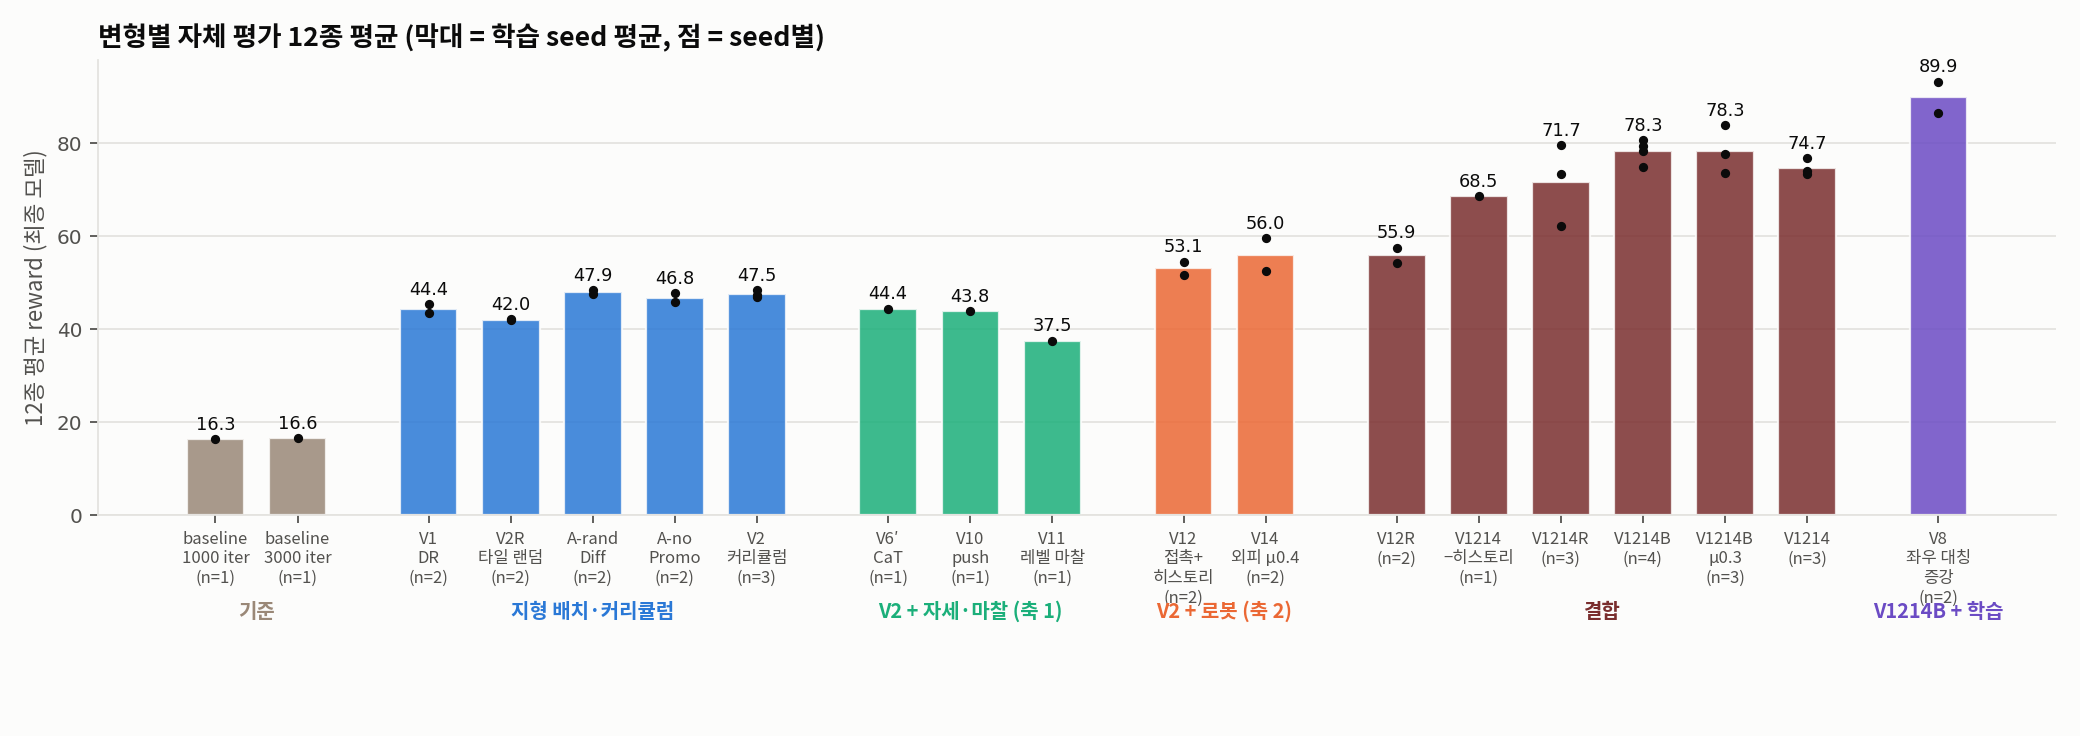
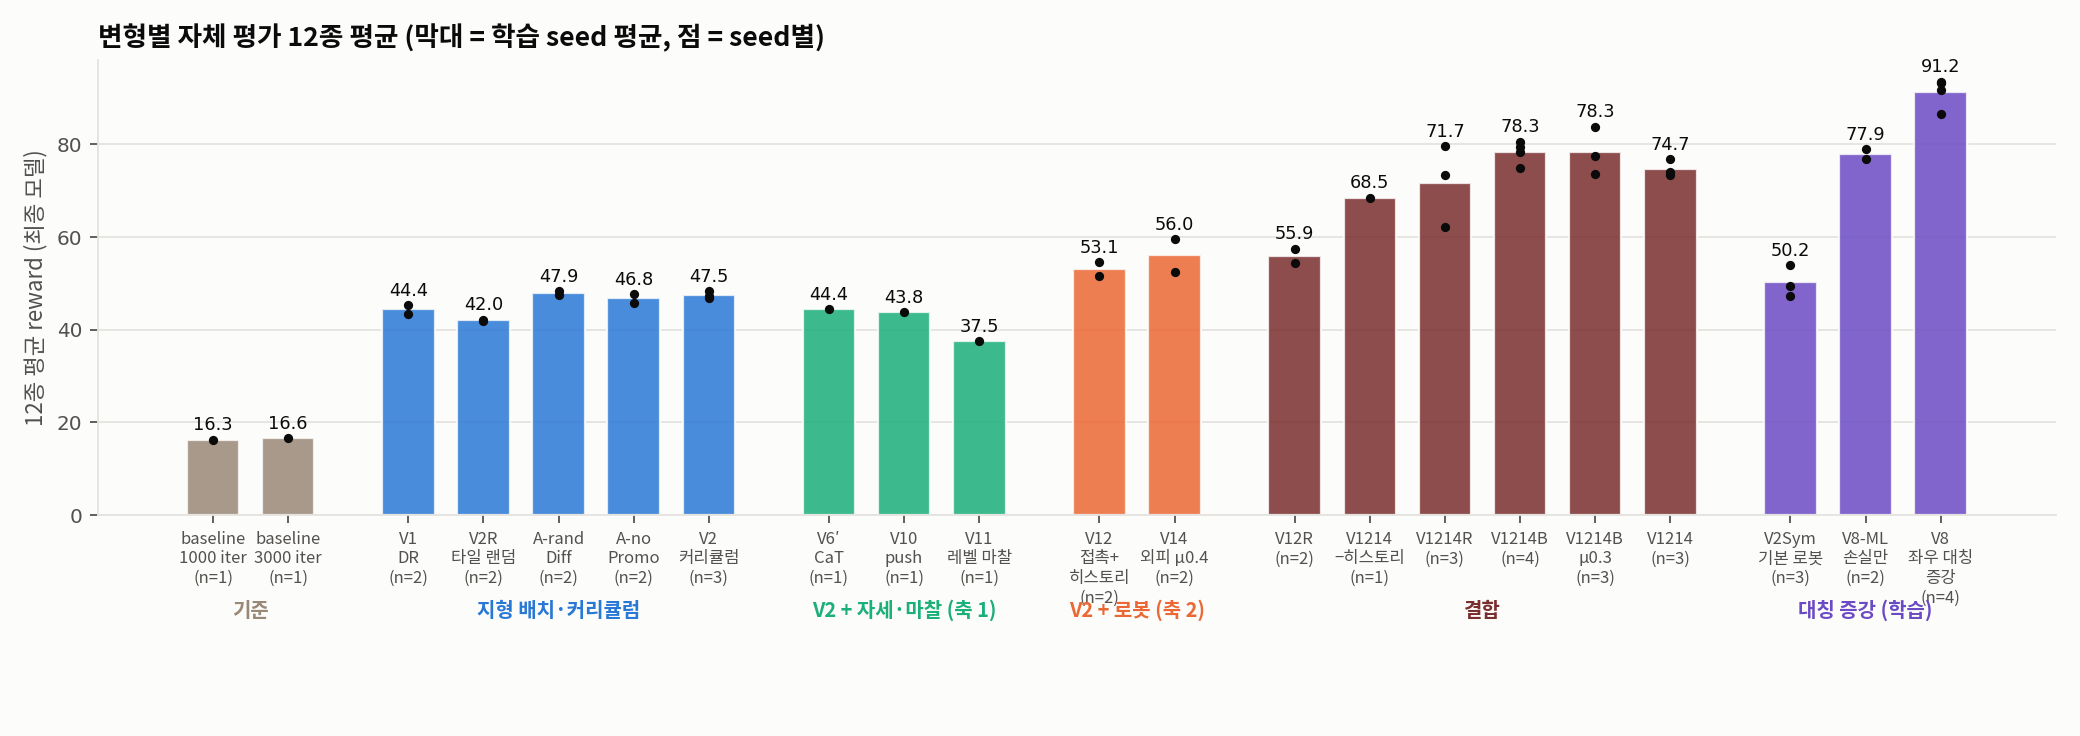
V2Sym 3 seed 50.2 ± 2.7: 대칭 증강은 로봇 변경 위에서만 크게 효과 (+2.7 vs +12.9), 그림 갱신

diff --git a/assignment1_ant/scripts/plot_round2.py b/assignment1_ant/scripts/plot_round2.py
@@ -39,7 +39,7 @@ LADDER = [
     ("V2 + 로봇 (축 2)", [("v12", "V12\n접촉+\n히스토리"), ("v14", "V14\n외피 μ0.4")], "#eb6834"),
     ("결합", [("v12r", "V12R"), ("v1214nohist", "V1214\n−히스토리"), ("v1214r", "V1214R"), ("v1214b", "V1214B"), ("v1214bmu03", "V1214B\nμ0.3"),
             ("v1214", "V1214")], "#7a2e2e"),
-    ("V1214B + 학습", [("v8", "V8\n좌우 대칭\n증강")], "#6b4bc4"),
+    ("대칭 증강 (학습)", [("v2sym", "V2Sym\n기본 로봇"), ("v8ml", "V8-ML\n손실만"), ("v8", "V8\n좌우 대칭\n증강")], "#6b4bc4"),
 ]  # fmt: skip
 
 

diff --git a/assignment1_ant/docs/log_1004.md b/assignment1_ant/docs/log_1004.md
@@ -11,3 +11,12 @@
 - 최종 모델 영상 (`docs/media/final_*.mp4`, `videos.csv`, 제출 로봇 = `Isaac-Ant-Eval-<Name>-Team12-v0` 새로 등록)
   - 평면 180.5 / 평지 144.0 / 레일 137.9 / 블록 Grid 125.4 / 피라미드 105.8 / 계단 101.9 — 모두 960 step 완주
   - 실패 사례: 평지 seed 24·25·26은 완주, seed 27에서 713 step에 뒤집힘 (reward 100.7). V2 실패 영상은 274 step·16.0
+- **V2Sym 3 seed 50.2 ± 2.7** vs V2 47.5 ± 0.6 → 기본 로봇에서 대칭 증강 **+2.7** (블록 49.3→56.9, 평지 38.5→35.9)
+  vs 로봇 변경 위에서 **+12.9** (V1214B 78.3 → V8 91.2) → 대칭 증강 × 로봇 변경 **상호작용**
+  (가설: 관측이 풍부할수록(접촉·히스토리 204차원) 정책이 쓸 상태 공간이 넓어 거울 데이터의 가치가 큼. 검증은 안 함)
+- 대칭 ablation 정리 (12종 평균, seed 2~4): V2 47.5 → V2Sym 50.2 / V1214B 78.3 → V8-ML 77.9 · V8 **91.2**
+
+## 다음 행동 (월요일 오전)
+
+- 잠금 테스트 `UnseenMix` 공식 프로토콜 1회: 최종 v8_s44@2999 (`Isaac-Ant-Test-UnseenMix-V1214-v0`), V1214B 1위, V2, baseline
+- `eval_command.txt`, README, report_material 수치 채우기, GitHub push 1회

diff --git a/assignment1_ant/docs/report_material.md b/assignment1_ant/docs/report_material.md
@@ -53,7 +53,7 @@ Isaac-Ant-v0 정책이 **지형 형태와 마찰만 바뀐 처음 보는 지형*
    - 발 반력(조인트 wrench)은 좌표계 때문에 손으로 부호 유도 실패 → 상관으로 측정해 맵 확정 (발표 포인트: "추측 대신 측정")
    - 블록 80.8→96.7, 평지 69.8→86.7, 계단 57.9→71.5, 보고용 84.8→98.1
    - ablation V8-ML (증강 없이 대칭 손실만): **77.9 ± 1.1** ≈ V1214B → 대칭 강제만으로는 효과 없음, 이득은 거울 데이터 증강
-   - ablation V2Sym (기본 로봇 + 증강): ___
+   - ablation V2Sym (기본 로봇 + 증강): **50.2 ± 2.7** vs V2 47.5 → +2.7뿐. 로봇 변경 위에서는 +12.9 → **대칭 증강과 로봇 감지·물성 변경의 상호작용**
 5. **선택 지형이 고르는 계열을 좌우**: Boxes·Rails 선택은 블록 위주 V1214 계열 1위, 보고용(경사·피라미드)은 V1214R 계열 우세
 
 그림: `figures/r2_heatmap.png`

diff --git a/assignment1_ant/results/summary_round2.md b/assignment1_ant/results/summary_round2.md
@@ -60,5 +60,5 @@
 | V8 (V1214B+좌우 대칭 증강) | 최종 | 42,43,44,45 | 91.2 ± 2.8 | 96.7 ± 2.1 | 86.7 ± 7.0 | 65.8 ± 5.2 | 71.5 ± 2.0 | 98.1 ± 2.8 |
 | V8-ML (대칭 손실만) | 1000 | 42,43 | 72.9 ± 0.7 | 75.9 ± 2.3 | 61.7 ± 10.7 | 74.4 ± 12.7 | 56.1 ± 0.1 | 79.2 ± 0.1 |
 | V8-ML (대칭 손실만) | 최종 | 42,43 | 77.9 ± 1.1 | 83.3 ± 2.5 | 63.9 ± 3.1 | 77.2 ± 5.2 | 59.8 ± 0.5 | 84.7 ± 0.8 |
-| V2Sym (V2+대칭 증강, 로봇 그대로) | 1000 | 42 | 40.6 | 45.2 | 30.0 | 78.1 | 9.2 | 26.3 |
-| V2Sym (V2+대칭 증강, 로봇 그대로) | 최종 | 42 | 49.4 | 52.8 | 45.5 | 56.4 | 14.7 | 34.4 |
+| V2Sym (V2+대칭 증강, 로봇 그대로) | 1000 | 42,43,44 | 43.7 ± 3.4 | 49.8 ± 3.6 | 27.7 ± 7.1 | 81.0 ± 7.0 | 9.3 ± 0.4 | 26.5 ± 2.2 |
+| V2Sym (V2+대칭 증강, 로봇 그대로) | 최종 | 42,43,44 | 50.2 ± 2.7 | 56.9 ± 3.4 | 35.9 ± 9.9 | 74.7 ± 15.9 | 11.6 ± 2.3 | 32.3 ± 2.2 |
